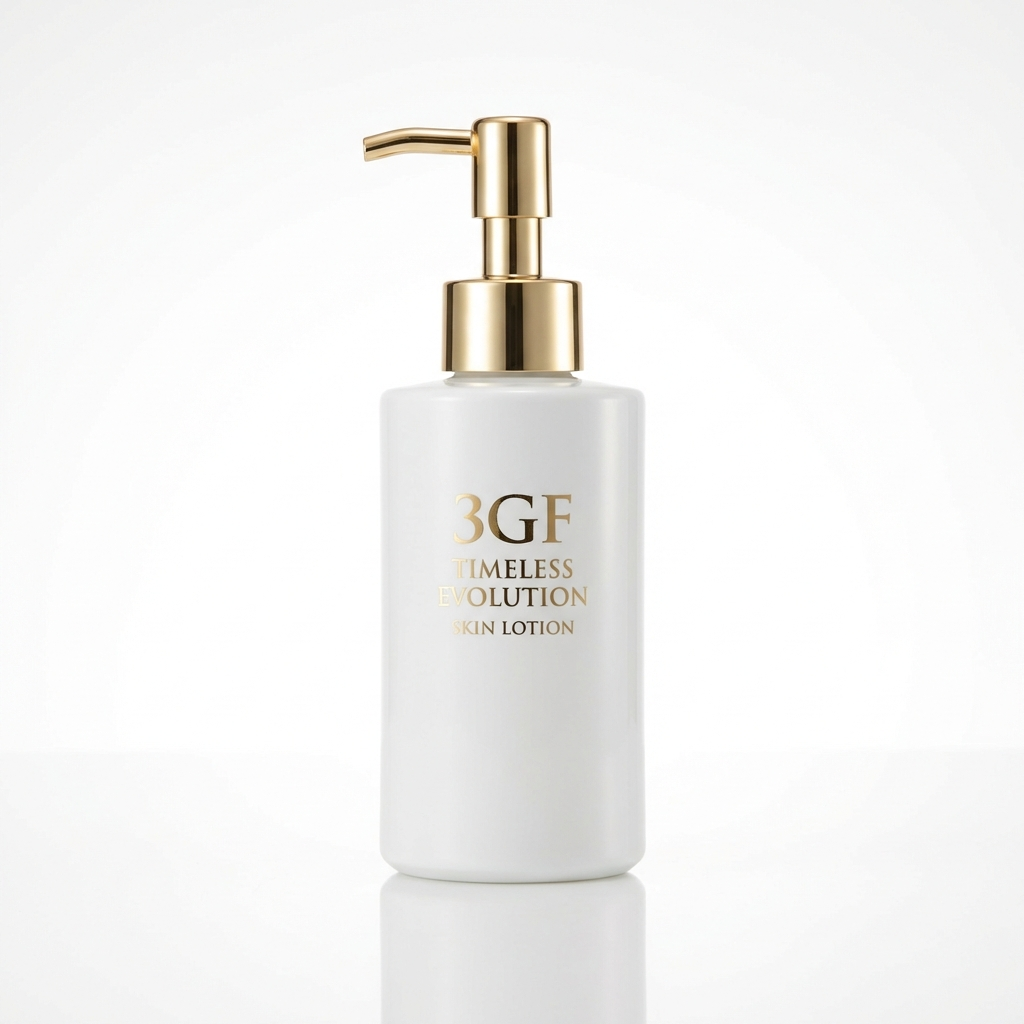
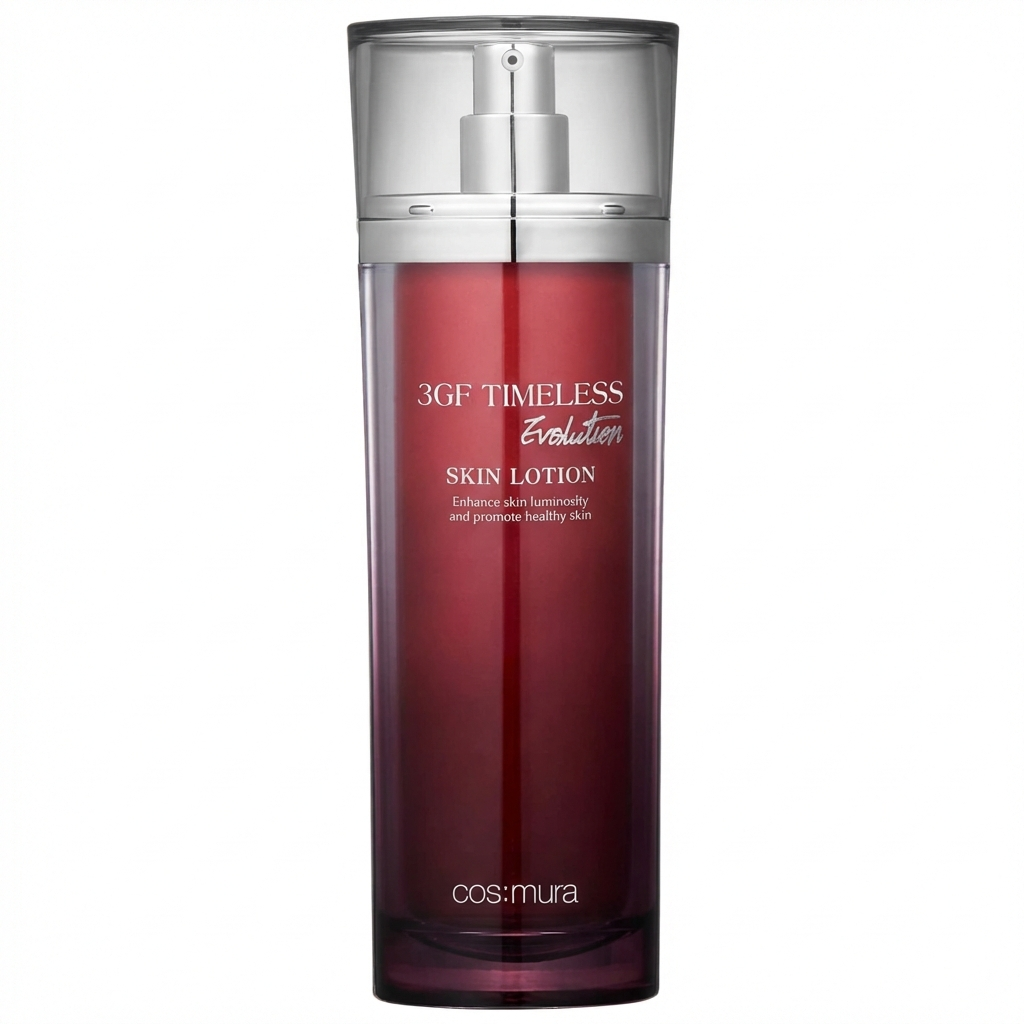
Regenerate images using actual product reference (cos:mura 3GF Lotion)

Changed region(s): [[0.3125, 0.0, 0.6875, 1.0]]

diff --git a/creatives/B099DLV8QN/generate_images_with_ref.py b/creatives/B099DLV8QN/generate_images_with_ref.py
@@ -1,0 +1,131 @@
+import os
+import io
+import time
+from google import genai
+from google.genai import types
+from PIL import Image
+from dotenv import load_dotenv
+
+# Load Env
+load_dotenv()
+
+# Config
+ASIN = "B099DLV8QN"
+BASE_DIR = f"creatives/{ASIN}"
+IMG_DIR = os.path.join(BASE_DIR, "images")
+REF_IMG_PATH = os.path.join(BASE_DIR, "reference_product.jpg")
+PROMPT_FILE = os.path.join(BASE_DIR, "04_nano_banana_prompts.md")
+
+def main():
+    api_key = os.getenv('GEMINI_API_KEY')
+    if not api_key:
+        print("Error: GEMINI_API_KEY not set.")
+        return
+
+    client = genai.Client(api_key=api_key)
+    
+    # Load Reference Image
+    if not os.path.exists(REF_IMG_PATH):
+        print(f"Error: Reference image not found at {REF_IMG_PATH}")
+        return
+        
+    try:
+        ref_image = Image.open(REF_IMG_PATH)
+        print(f"Loaded reference image: {REF_IMG_PATH} ({ref_image.size})")
+    except Exception as e:
+        print(f"Failed to load reference image: {e}")
+        return
+
+    # Image Prompts (Hardcoded for accuracy based on previous steps)
+    # We will use the REFERENCE IMAGE to guide the generation (Image-to-Image / Multimodal)
+    
+    tasks = [
+        {
+            "id": 1,
+            "prompt": "Create a clean, professional main product image of this skincare lotion bottle. Pure white background. Remove any shadows or reflections that look messy. Keep the bottle exactly as it looks in the reference image. High key lighting.",
+        },
+        {
+            "id": 2,
+            "prompt": "Show this lotion bottle with 3 glowing golden droplets floating around it, representing '3GF ingredients'. Soft, premium background with white and gold gradients. Keep the bottle realistic and central.",
+        },
+        {
+            "id": 3,
+            "prompt": "Close-up macro shot of the lotion texture. A rich, thick, clear/milky droplet of the liquid on a glass surface. The bottle is visible in the blurred background. Emphasize the moisturizing 'toromi' texture.",
+        },
+        {
+            "id": 4,
+            "prompt": "The lotion bottle surrounded by botanical elements (subtle herbs or flowers) and faint scientific molecular structures overlay. Clean, medical-beauty aesthetic. White and green accents.",
+        },
+        {
+            "id": 5,
+            "prompt": "Lifestyle shot: A beautiful Asian woman (30s) with radiant skin holding this lotion bottle near her face. Soft morning light. She looks happy and confident. Focus on her glowing skin.",
+        },
+        {
+            "id": 6,
+            "prompt": "Minimalist diagram showing 'How to Use'. Step 1: Water splash (wash). Step 2: This lotion bottle. Step 3: A cream jar. Connected by arrows. Clean white background.",
+        },
+        {
+            "id": 7,
+            "prompt": "A premium cosmetic store display shelf with this lotion bottle prominently featured. 'cos:mura' branding visible on the shelf. Bright, clean, modern interior.",
+        },
+        {
+            "id": 8,
+            "prompt": "Epic hero shot of the lotion bottle on a golden podium with light rays radiating from behind. 'TIMELESS EVOLUTION' theme. Luxurious atmosphere.",
+        }
+    ]
+
+    print(f"Starting generation for {len(tasks)} images using Reference Image...")
+
+    for task in tasks:
+        i = task['id']
+        prompt_text = task['prompt']
+        print(f"\nGenerating Image {i}...")
+
+        try:
+            # Pass both the text prompt AND the reference image
+            response = client.models.generate_content(
+                model="gemini-3-pro-image-preview",
+                contents=[prompt_text, ref_image], # Multimodal input
+                config=types.GenerateContentConfig(
+                    response_modalities=['IMAGE'],
+                    image_config=types.ImageConfig(
+                        aspect_ratio="1:1",
+                    )
+                )
+            )
+            
+            # Save
+            saved = False
+            for part in response.parts:
+                if part.inline_data:
+                    image_bytes = part.inline_data.data
+                    image = Image.open(io.BytesIO(image_bytes))
+                    
+                    filename = f"{ASIN}_0{i}_main.png" if i == 1 else f"{ASIN}_0{i}.png"
+                    save_path = os.path.join(IMG_DIR, filename)
+                    image.save(save_path)
+                    print(f"Saved: {save_path}")
+                    
+                    # Thumbnail
+                    thumb_size = (800, 800)
+                    thumb = image.resize(thumb_size)
+                    thumb_filename = f"thumb_{ASIN}_0{i}_main.jpg" if i == 1 else f"thumb_{ASIN}_0{i}.jpg"
+                    thumb_path = os.path.join(IMG_DIR, thumb_filename)
+                    thumb.save(thumb_path, "JPEG", quality=85)
+                    print(f"Saved thumbnail")
+                    saved = True
+                    break
+            
+            if not saved:
+                print(f"Warning: No image found in response for Image {i}")
+
+        except Exception as e:
+            print(f"Failed to generate Image {i}: {e}")
+            if "429" in str(e):
+                 print("Rate limit. Sleeping 60s...")
+                 time.sleep(60)
+
+        time.sleep(10) # Safety buffer
+
+if __name__ == "__main__":
+    main()
